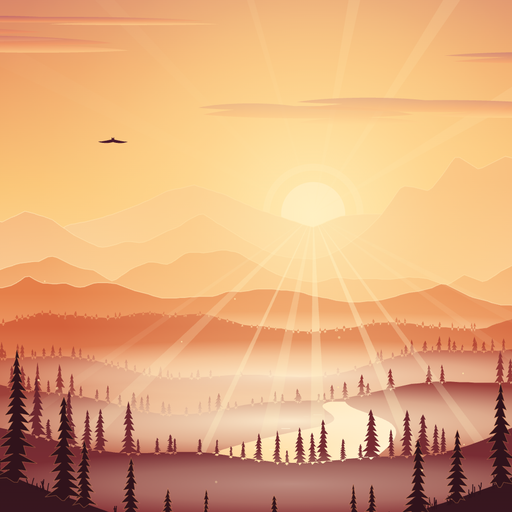
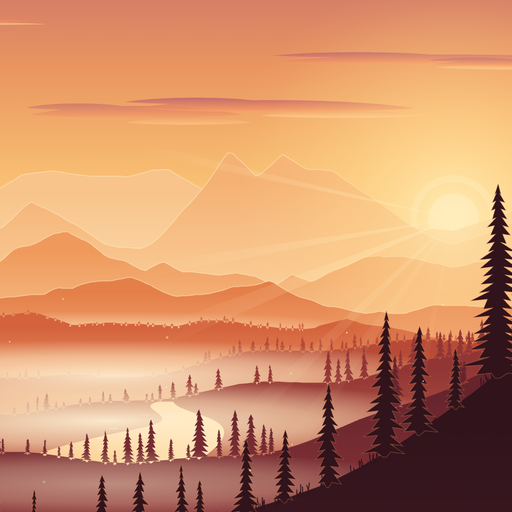
Move the sun to the right, half behind the firs, so it no longer glares through the chat; calm sky and fog in the middle

diff --git a/hooks/scene/sky.ts b/hooks/scene/sky.ts
@@ -16,9 +16,9 @@ export function skyFills(): string {
     '<linearGradient id="sky" x1="0" y1="0" x2="0" y2="1"><stop offset="0" stop-color="#c9726b"/><stop offset=".3" stop-color="#ea9560"/><stop offset=".62" stop-color="#f9c173"/><stop offset="1" stop-color="#ffe9b3"/></linearGradient>' +
     '<radialGradient id="glow"><stop offset="0" stop-color="#ffe9a8"/><stop offset=".16" stop-color="#ffe19a" stop-opacity=".85"/><stop offset=".5" stop-color="#ffcf80" stop-opacity=".32"/><stop offset="1" stop-color="#ffcf80" stop-opacity="0"/></radialGradient>' +
     '<radialGradient id="haze"><stop offset="0" stop-color="#ffedb8" stop-opacity=".6"/><stop offset=".45" stop-color="#ffd690" stop-opacity=".4"/><stop offset="1" stop-color="#ffd690" stop-opacity="0"/></radialGradient>' +
-    `<radialGradient id="beam" gradientUnits="userSpaceOnUse" cx="${SUN.x}" cy="${SUN.y}" r="1100"><stop offset=".04" stop-color="#fff2c4" stop-opacity=".6"/><stop offset="1" stop-color="#fff2c4" stop-opacity="0"/></radialGradient>` +
+    `<radialGradient id="beam" gradientUnits="userSpaceOnUse" cx="${SUN.x}" cy="${SUN.y}" r="560"><stop offset=".06" stop-color="#fff2c4" stop-opacity=".55"/><stop offset="1" stop-color="#fff2c4" stop-opacity="0"/></radialGradient>` +
     '<radialGradient id="mist"><stop offset="0" stop-color="#fff0d2" stop-opacity=".95"/><stop offset=".55" stop-color="#ffe8c0" stop-opacity=".6"/><stop offset="1" stop-color="#ffe8c0" stop-opacity="0"/></radialGradient>' +
-    '<linearGradient id="river" x1="0" y1="0" x2="1" y2="0"><stop offset="0" stop-color="#f3a66b"/><stop offset=".6" stop-color="#ffdb98"/><stop offset="1" stop-color="#fffbe4"/></linearGradient>' +
+    '<linearGradient id="river" x1="0" y1="0" x2="1" y2="0"><stop offset="0" stop-color="#f3a66b"/><stop offset=".6" stop-color="#fbcf92"/><stop offset="1" stop-color="#ffe6b8"/></linearGradient>' +
     '<linearGradient id="cloud" x1="0" y1="0" x2="0" y2="1"><stop offset="0" stop-color="#b9616f"/><stop offset=".55" stop-color="#f08f62"/><stop offset="1" stop-color="#ffd08c"/></linearGradient>'
   )
 }
@@ -26,9 +26,9 @@ export function skyFills(): string {
 export function sky(): string {
   return (
     `<rect x="-20" y="-20" width="${WIDTH + 40}" height="640" fill="url(#sky)"/>` +
-    `<circle cx="${SUN.x}" cy="${SUN.y}" r="780" fill="url(#glow)"/>` +
+    `<circle cx="${SUN.x}" cy="${SUN.y}" r="430" fill="url(#glow)"/>` +
     `<circle class="halo" cx="${SUN.x}" cy="${SUN.y}" r="${SUN.size + 26}" fill="none" stroke="#fff6d2" stroke-width="12"/>` +
-    `<circle cx="${SUN.x}" cy="${SUN.y}" r="${SUN.size}" fill="#fffdf2"/>`
+    `<circle cx="${SUN.x}" cy="${SUN.y}" r="${SUN.size}" fill="#fff4d0"/>`
   )
 }
 
@@ -44,7 +44,7 @@ export function rays(seed: number, from: number, to: number, count: number, stre
   for (let index = 0; index < count; index += 1) {
     const angle = ((between(from, to, (index + 0.5 * chance(seed, index, 11 + from)) / count)) * Math.PI) / 180
     const half = (between(0.7, 2.1, chance(seed, index, 12 + from)) * Math.PI) / 180
-    const end = (turn: number) => `${Math.round(SUN.x + 1300 * Math.cos(turn))} ${Math.round(SUN.y + 1300 * Math.sin(turn))}`
+    const end = (turn: number) => `${Math.round(SUN.x + 600 * Math.cos(turn))} ${Math.round(SUN.y + 600 * Math.sin(turn))}`
     const pace = between(7, 14, chance(seed, index, 13 + from)).toFixed(1)
 
     beams += `<path class="ray" style="animation-duration:${pace}s;animation-delay:-${(index * 2.3).toFixed(1)}s" d="M${SUN.x} ${SUN.y}L${end(angle - half)}L${end(angle + half)}Z"/>`

diff --git a/hooks/scene.ts b/hooks/scene.ts
@@ -1,7 +1,7 @@
 // The whole view, drawn back to front. It depends only on the session's seed, so it is never drawn again
 // mid-session and nothing flickers.
 
-import { HEIGHT, SUN, WIDTH } from './scene/kit'
+import { HEIGHT, VALLEY, WIDTH } from './scene/kit'
 import { NEAREST, RIDGES, fog, ridge, ridgeFills, river } from './scene/land'
 import { LIFE_STYLE, eagle, farFlock, motes, nearFlock } from './scene/life'
 import { SKY_STYLE, clouds, haze, rays, sky, skyFills } from './scene/sky'
@@ -20,25 +20,24 @@ function draw(seed: number, thin: number): string {
     `<style>${SKY_STYLE}${LIFE_STYLE}${STILL}</style>` +
     `<defs>${skyFills()}${ridgeFills()}</defs>` +
     sky() +
-    rays(seed, 195, 345, 6, 0.45) +
     clouds(seed) +
     land(0) +
     land(1) +
     land(2) +
-    haze(620, 1) +
+    haze(380, 0.9) +
     farFlock(seed) +
     land(3) +
-    fog(SUN.x, 650, 580, 52, 52, 0.8) +
+    fog(VALLEY, 650, 580, 52, 52, 0.8) +
     land(4) +
-    haze(480, 0.9) +
+    haze(280, 0.75) +
     land(5) +
-    fog(SUN.x, 712, 620, 64, 44, 0.95) +
+    fog(VALLEY, 712, 620, 64, 44, 0.95) +
     land(6) +
     river(seed) +
-    fog(SUN.x, 790, 640, 74, 58, 1) +
-    rays(seed, 20, 160, 9, 0.8) +
+    fog(VALLEY, 790, 640, 74, 58, 1) +
+    rays(seed, 100, 205, 6, 0.6) +
     land(7) +
-    fog(SUN.x, 900, 560, 60, 60, 0.5) +
+    fog(VALLEY, 900, 560, 60, 60, 0.5) +
     nearFlock(seed) +
     eagle() +
     land(NEAREST) +

diff --git a/hooks/scene/kit.ts b/hooks/scene/kit.ts
@@ -1,10 +1,12 @@
 // Shared by every part of the scene: the picture's size, where the sun stands, and small drawing helpers.
-// The sun stands behind the middle, where the app lays the chat: the words then sit on the brightest, calmest
-// part of the view, and the dark trees and deep color keep to the sides, where nothing covers them.
+// The sun stands low at the right, half behind the tall firs, so it never glares through the chat in the middle.
+// The middle holds only calm sky and pale valley fog.
 
 export const WIDTH = 1600
 export const HEIGHT = 1000
-export const SUN = { x: 900, y: 428, size: 56 } as const
+/** The middle of the valley, where the fog lies. The app lays the chat over this part. */
+export const VALLEY = 880
+export const SUN = { x: 1446, y: 436, size: 44 } as const
 
 /** A fixed pseudo-random number from 0 to 1, so a session's seed always draws the same view. */
 export function chance(seed: number, index: number, salt = 0): number {

diff --git a/hooks/register.tsx b/hooks/register.tsx
@@ -31,7 +31,7 @@ const { theme, problems } = makeColors({
 // The scene's name goes under `id` as well as `scene`, as the theme-examples plugin sets its own.
 const LOOK = {
   colors: theme,
-  backdrop: { scene: SCENE, id: SCENE, glass: { blur: 2, tint: '#fff6e6', opacity: 0.45 } },
+  backdrop: { scene: SCENE, id: SCENE, glass: { blur: 2, tint: '#fff6e6', opacity: 0.55 } },
 } as unknown as ThemeSetArgs
 
 /**

diff --git a/README.md b/README.md
@@ -1,12 +1,12 @@
 # Vista theme for the Claude desktop app
 
-A far view for the Code tab, at golden hour. You stand among tall firs and look out over layer after layer of forested ridges that fade into warm haze, all the way to distant peaks. A low sun sits in a gap between them, fog glows in the valley, and a river carries the light toward you.
+A far view for the Code tab, at golden hour. You stand among tall firs and look out over layer after layer of forested ridges that fade into warm haze, all the way to distant peaks. A low sun sits in a gap between them at the right, fog lies in the valley, and a river winds toward you.
 
 ![a wide golden-hour view over layers of forested ridges to distant peaks, with a low sun, a river, tall firs, thin clouds and birds](docs/preview.gif)
 
 ## What moves
 
-- Long rays of light fan out from the sun and slowly grow and fade.
+- Short rays of light fan out from the sun through the firs and slowly grow and fade.
 - Thin clouds, dusky on top and gold underneath, cross very slowly.
 - A flock of birds crosses the sky, and a smaller flock passes low over the peaks the other way.
 - An eagle glides in a wide slow circle.
@@ -16,7 +16,7 @@ A far view for the Code tab, at golden hour. You stand among tall firs and look 
 
 Each session draws its own view from its own seed (taken from when the session started): the shape of every ridge and peak, where the forest stands and where it opens, how the clouds lie. The view is drawn once and then left alone, so nothing flickers while Claude works.
 
-The colors are a light theme with dark text. The sun and the valley fog sit behind the middle of the window, where the app lays the chat, so the words rest on the brightest, calmest part of the view and only a thin veil is needed. The tall firs and the deep colors keep to the sides, where nothing covers them.
+The colors are a light theme with dark text. The middle of the window, where the app lays the chat, holds only calm sky and pale valley fog, so the words rest on a quiet part of the view and only a thin veil is needed. The sun stands low at the right, half behind the tall firs, so it never shines through your text. The firs and the deep colors keep to the sides, where nothing covers them.
 
 ## Install
 

diff --git a/docs/references.md b/docs/references.md
@@ -59,4 +59,4 @@ Real photographs (Grand Teton from the Snake River, Yosemite's Tunnel View, laye
 5. Tall dark firs at both sides, so you look out from shelter.
 6. Tiny birds against huge mountains, to give the scale.
 7. Slow motion only: nothing that pulls the eye away from reading.
-8. The app lays the chat over the middle of the window and cannot be moved by a theme. So the middle holds the light (sun, bloom, valley fog) and the sides hold the dark trees and the detail. That keeps dark text readable with a thin veil.
+8. The app lays the chat over the middle of the window and a theme cannot move it. So the middle holds only calm sky and pale fog, and the sides hold the sun, the dark trees and the detail. A sun behind the text was tried and felt like glare in the eyes: never put the light source or its rays behind the words.
